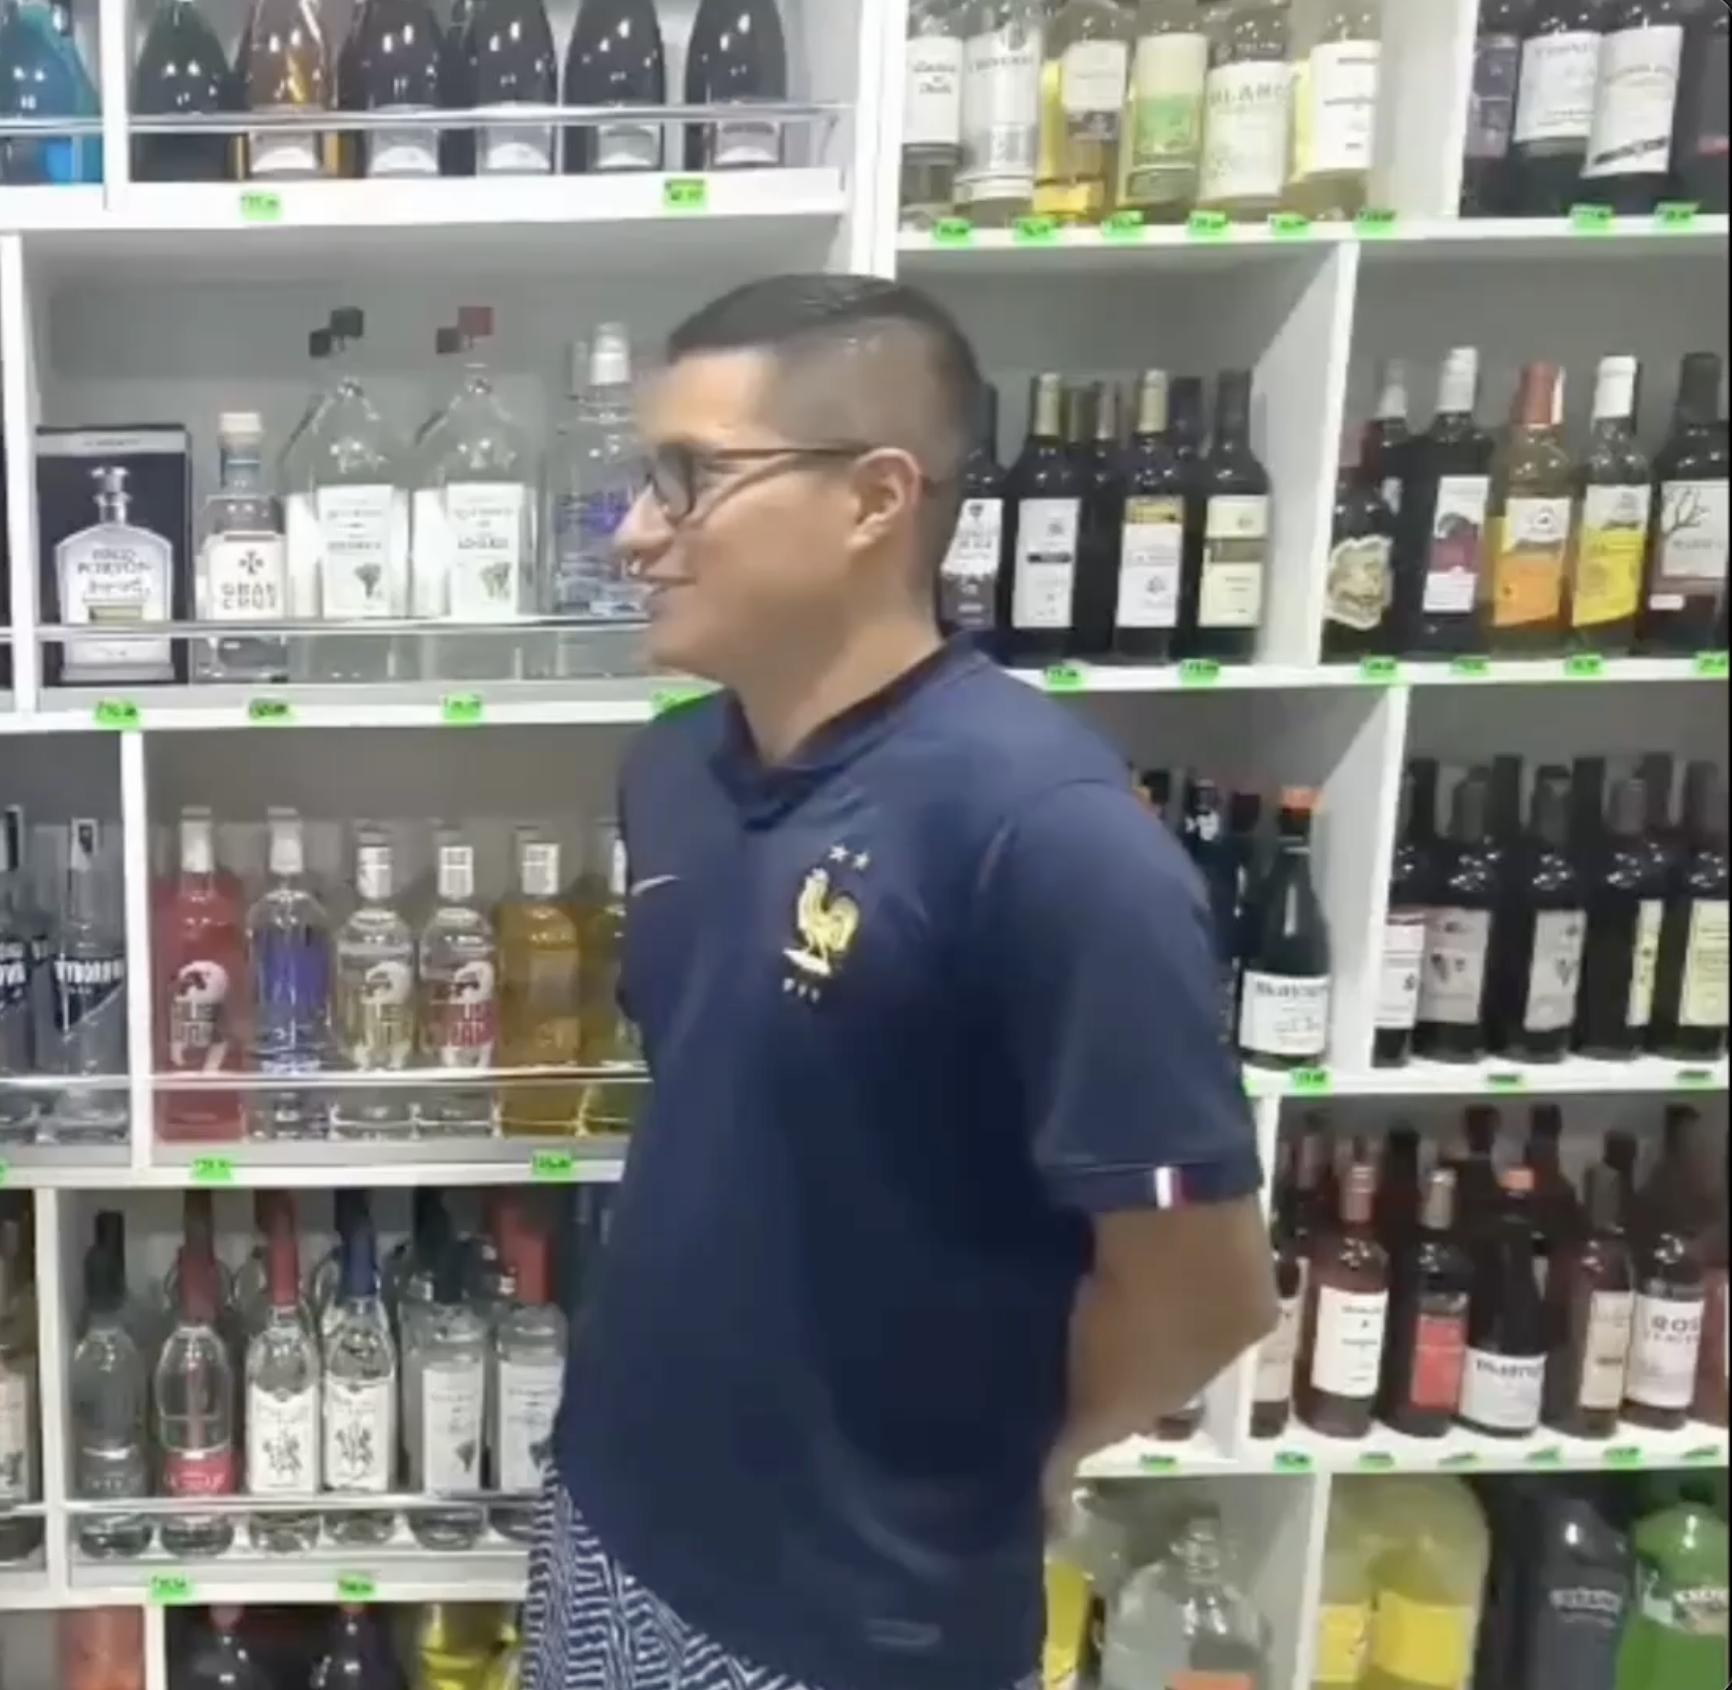
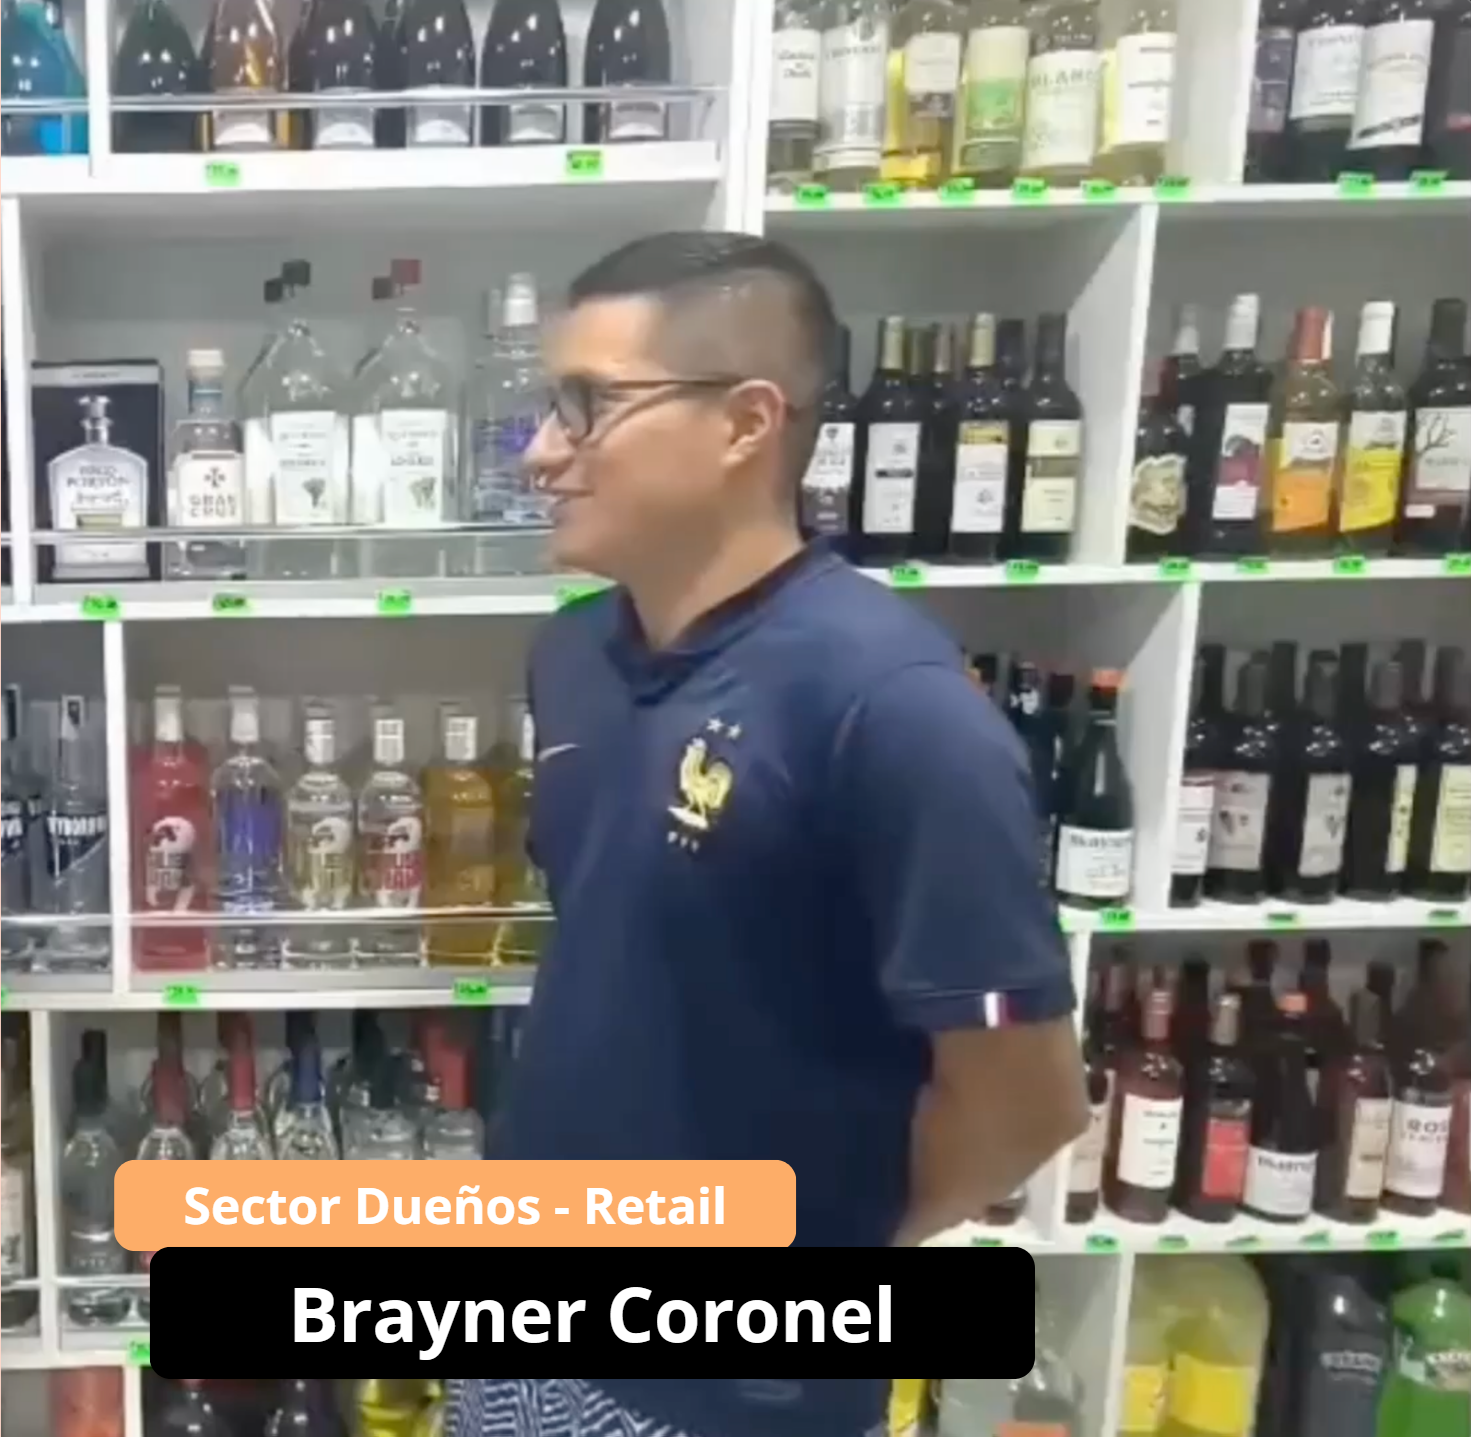
feat: add interviews link.

diff --git a/02-chap2-requirements-elicitation-and-analysis.md b/02-chap2-requirements-elicitation-and-analysis.md
@@ -81,7 +81,7 @@ En esta sección se presenta la investigación realizada a partir de la recolecc
 **Timing:** (00:08 - 05:04 min)
 
 ![Foto de Entrevista](assets/images/chapter2/needfinding-interviews/entrevista1.png)
-Ver entrevista (00:08 - 05:04 min): https://shorturl.at/aNnes
+Ver entrevista (00:08 - 05:04 min): https://bit.ly/41kf54H
 
 **Resumen:**
 Alex Guardia, gerente de restaurantes con 5 a 6 años de experiencia, tiene 38 años, es casado y vive en el distrito de Chorrillos, Lima. Es una persona analítica, comprometida y orientada a la mejora continua. Utiliza dispositivos como un celular Android y una laptop con Windows, y su navegador habitual es Google Chrome.
@@ -96,7 +96,7 @@ Para comunicarse, recurre frecuentemente a canales como WhatsApp y YouTube. Se i
 **Timing:** (05:05 - 09:13 min)
 
 ![Foto de Entrevista](assets/images/chapter2/needfinding-interviews/entrevista2.png)
-Ver entrevista (05:05 - 09:13 min): https://shorturl.at/aNnes
+Ver entrevista (05:05 - 09:13 min): https://bit.ly/41kf54H
 
 **Resumen:**
 
@@ -118,7 +118,7 @@ Actualmente invierte alrededor de 300 soles mensuales en herramientas tecnológi
 **Timing:** (09:14 - 14:25 min)
 
 ![Foto de Entrevista](assets/images/chapter2/needfinding-interviews/entrevista3.png)
-Ver entrevista (09:14 - 14:25 min): https://shorturl.at/aNnes
+Ver entrevista (09:14 - 14:25 min): https://bit.ly/41kf54H
 
 **Resumen:**
 
@@ -134,7 +134,7 @@ Está dispuesta a invertir en un software que automatice su negocio si este se a
 
 #### Segmento 2: Dueños o administradores de negocios del sector retail de consumo masivo
 
-##### Entrevista 1:
+##### Entrevista 4:
 
 **Nombre:** Brayner Coronel
 **Edad:** 28 años
@@ -142,7 +142,7 @@ Está dispuesta a invertir en un software que automatice su negocio si este se a
 **Timing:** 
 
 ![Foto de Entrevista](assets/images/chapter2/needfinding-interviews/entrevista4.png)
-Ver entrevista ():  
+Ver entrevista (): https://bit.ly/41kf54H 
 
 **Resumen:**
 
@@ -159,7 +159,7 @@ Al ingresar los datos en el sistema, puede visualizar fácilmente la disponibili
 
 Además, considera que contar con un software especializado, con funciones más avanzadas y herramientas adaptadas a las necesidades específicas de su rubro, puede marcar una gran diferencia en la forma en que administra su negocio.
 
-##### Entrevista 2:
+##### Entrevista 5:
 
 **Nombre:** Erick Coronel
 **Edad:** 51 años
@@ -167,7 +167,7 @@ Además, considera que contar con un software especializado, con funciones más 
 **Timing:**
 
 ![Foto de Entrevista](assets/images/chapter2/needfinding-interviews/entrevista5.png)
-Ver entrevista ():
+Ver entrevista (): https://bit.ly/41kf54H
 
 **Resumen:**
 
@@ -179,7 +179,7 @@ Para gestionar su inventario y las ventas diarias, utiliza un software básico q
 
 Erick no enfrenta dificultades con productos que no logran venderse, ya que cuenta con un acuerdo con sus proveedores, quienes aceptan devoluciones, lo que le brinda mayor tranquilidad en la gestión de su stock. Valora el uso de herramientas digitales, especialmente aquellas que le permiten mejorar el proceso de cobranza, una parte crucial de su operación diaria.
 
-##### Entrevista 3:
+##### Entrevista 6:
 
 **Nombre:** Luis Alfonso Jimenez
 **Edad:** 55 años
@@ -187,7 +187,7 @@ Erick no enfrenta dificultades con productos que no logran venderse, ya que cuen
 **Timing:**
 
 ![Foto de Entrevista](assets/images/chapter2/needfinding-interviews/entrevista6.png)
-Ver entrevista ():
+Ver entrevista (): https://bit.ly/41kf54H
 
 **Resumen:**
 
